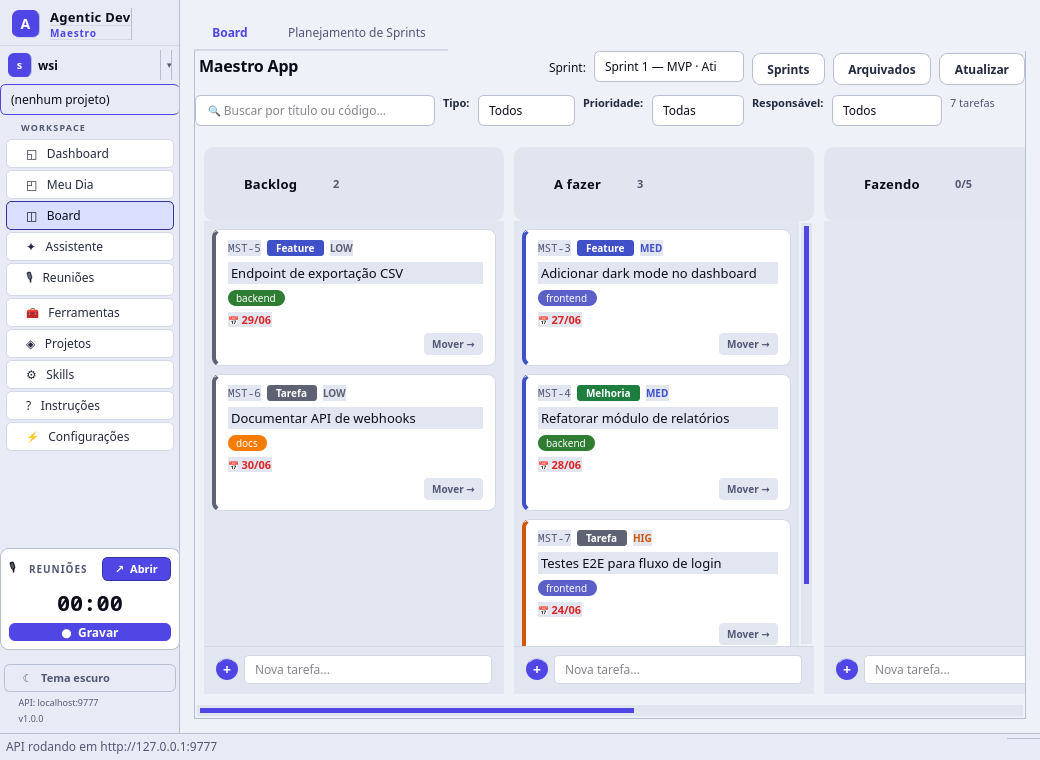
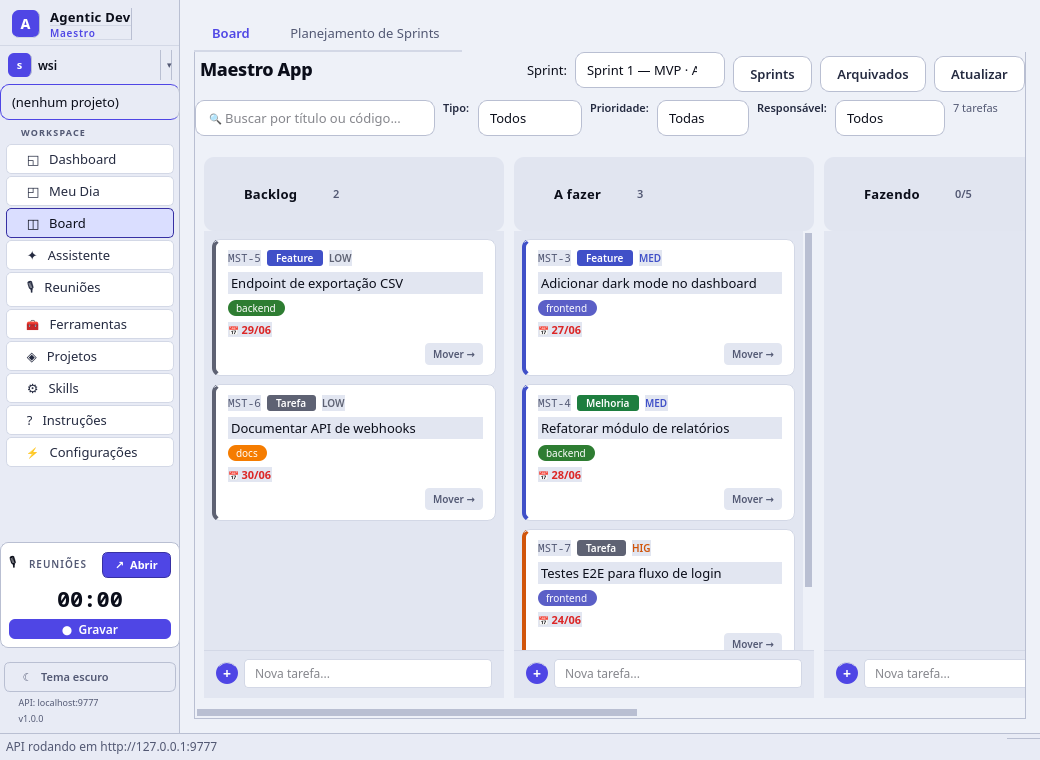
style(ui): modernizar o tema (afeta todas as telas)
Ajustes no QSS global (gui/theme.py), aplicados de uma vez a todas as telas:
- Tipografia um pouco maior (base 12→13px, títulos de seção 16→18/800,
  subtítulos 11→12px) para melhor legibilidade.
- Cantos mais arredondados e respiráveis: cards 8→12px, inputs/combos 6→9px,
  botões 8→9px com mais padding; checkbox 16→18px.
- Inputs e combos ganham estado de HOVER (borda de foco) além do focus.
- QToolButton passa a ter estilo consistente (mesmo visual dos botões flat),
  usado pelos toggles/menus das Reuniões — antes ficavam cinza padrão.
- Scrollbars finas e discretas (15→11px, alça translúcida que realça no hover)
  no lugar das barras grossas com borda.
- Prints de todas as telas regenerados com o novo visual.

Verificado nos temas claro e escuro (render offscreen).

diff --git a/local-client/maestro_local/gui/theme.py b/local-client/maestro_local/gui/theme.py
@@ -136,7 +136,7 @@ QMainWindow, QWidget {{
     background-color: {t.bg_primary};
     color: {t.text_primary};
     font-family: "Inter", "Segoe UI", "Noto Sans", "Roboto", system-ui, sans-serif;
-    font-size: 12px;
+    font-size: 13px;
 }}
 QMenuBar {{
     background-color: {t.bg_sidebar};
@@ -215,11 +215,11 @@ QPushButton {{
     background-color: {t.accent};
     color: {t.text_on_accent};
     border: 1px solid {t.accent_pressed};
-    border-radius: 8px;
-    padding: 6px 16px;
-    min-height: 18px;
+    border-radius: 9px;
+    padding: 7px 18px;
+    min-height: 20px;
     font-weight: 600;
-    font-size: 12px;
+    font-size: 13px;
 }}
 QPushButton:hover {{ background-color: {t.accent_hover}; border-color: {t.accent}; }}
 QPushButton:pressed {{ background-color: {t.accent_pressed}; }}
@@ -237,8 +237,8 @@ QPushButton[flat="true"], QPushButton#flatBtn {{
     color: {t.text_secondary};
     font-weight: 600;
     border: 1px solid {t.border};
-    border-radius: 8px;
-    padding: 6px 14px;
+    border-radius: 9px;
+    padding: 7px 16px;
 }}
 QPushButton[flat="true"]:hover, QPushButton#flatBtn:hover {{
     background-color: {t.bg_hover};
@@ -248,15 +248,36 @@ QPushButton[flat="true"]:hover, QPushButton#flatBtn:hover {{
 QPushButton[flat="true"]:pressed, QPushButton#flatBtn:pressed {{
     background-color: {t.bg_selected};
 }}
+QToolButton {{
+    background-color: {t.bg_card};
+    color: {t.text_secondary};
+    border: 1px solid {t.border};
+    border-radius: 9px;
+    padding: 6px 12px;
+    font-weight: 600;
+}}
+QToolButton:hover {{
+    background-color: {t.bg_hover};
+    color: {t.text_primary};
+    border-color: {t.accent};
+}}
+QToolButton:pressed, QToolButton:checked {{
+    background-color: {t.bg_selected};
+}}
+QToolButton::menu-indicator {{ image: none; width: 0; }}
 QLineEdit, QTextEdit, QPlainTextEdit, QComboBox, QSpinBox, QDoubleSpinBox {{
     background-color: {t.bg_input};
     color: {t.text_primary};
     border: 1px solid {t.border};
-    border-radius: 6px;
-    padding: 5px 10px;
+    border-radius: 9px;
+    padding: 7px 11px;
     selection-background-color: {t.accent};
     selection-color: {t.text_on_accent};
-    font-size: 12px;
+    font-size: 13px;
+}}
+QLineEdit:hover, QTextEdit:hover, QPlainTextEdit:hover,
+QComboBox:hover, QSpinBox:hover, QDoubleSpinBox:hover {{
+    border-color: {t.border_focus};
 }}
 QLineEdit:focus, QTextEdit:focus, QPlainTextEdit:focus,
 QComboBox:focus, QSpinBox:focus, QDoubleSpinBox:focus {{
@@ -287,36 +308,32 @@ QComboBox QAbstractItemView {{
     padding: 4px;
 }}
 QScrollBar:vertical {{
-    background: {t.bg_badge};
-    width: 15px;
+    background: transparent;
+    width: 11px;
     margin: 2px;
-    border-radius: 7px;
 }}
 QScrollBar::handle:vertical {{
-    background: {t.accent};
-    border: 3px solid {t.bg_badge};
-    border-radius: 7px;
-    min-height: 44px;
+    background: {t.border};
+    border-radius: 5px;
+    min-height: 40px;
 }}
 QScrollBar::handle:vertical:hover {{
-    background: {t.accent_hover};
+    background: {t.accent};
 }}
 QScrollBar::add-line:vertical, QScrollBar::sub-line:vertical {{ height: 0; }}
 QScrollBar::add-page:vertical, QScrollBar::sub-page:vertical {{ background: transparent; }}
 QScrollBar:horizontal {{
-    background: {t.bg_badge};
-    height: 15px;
+    background: transparent;
+    height: 11px;
     margin: 2px;
-    border-radius: 7px;
 }}
 QScrollBar::handle:horizontal {{
-    background: {t.accent};
-    border: 3px solid {t.bg_badge};
-    border-radius: 7px;
-    min-width: 44px;
+    background: {t.border};
+    border-radius: 5px;
+    min-width: 40px;
 }}
 QScrollBar::handle:horizontal:hover {{
-    background: {t.accent_hover};
+    background: {t.accent};
 }}
 QScrollBar::add-line:horizontal, QScrollBar::sub-line:horizontal {{ width: 0; }}
 QScrollBar::add-page:horizontal, QScrollBar::sub-page:horizontal {{ background: transparent; }}
@@ -347,15 +364,15 @@ QTabBar::tab:hover:!selected {{
     border-bottom: 2px solid {t.border};
 }}
 QLabel#sectionTitle {{
-    font-size: 16px;
-    font-weight: 700;
+    font-size: 18px;
+    font-weight: 800;
     color: {t.text_primary};
-    letter-spacing: -0.2px;
+    letter-spacing: -0.3px;
     margin-bottom: 2px;
 }}
 QLabel#subtitle {{
     color: {t.text_muted};
-    font-size: 11px;
+    font-size: 12px;
 }}
 QProgressBar {{
     background-color: {t.bg_badge};
@@ -368,10 +385,11 @@ QProgressBar::chunk {{
     background-color: {t.accent};
     border-radius: 4px;
 }}
+QCheckBox {{ spacing: 7px; }}
 QCheckBox::indicator {{
-    width: 16px;
-    height: 16px;
-    border-radius: 4px;
+    width: 18px;
+    height: 18px;
+    border-radius: 5px;
     border: 2px solid {t.border};
     background-color: {t.bg_input};
 }}
@@ -425,8 +443,8 @@ QMessageBox QPushButton {{
 QFrame[class="card"] {{
     background: {t.bg_card};
     border: 1px solid {t.border_light};
-    border-radius: 8px;
-    padding: 6px;
+    border-radius: 12px;
+    padding: 8px;
 }}
 QLabel[class="cardTitle"] {{
     font-weight: 700;
